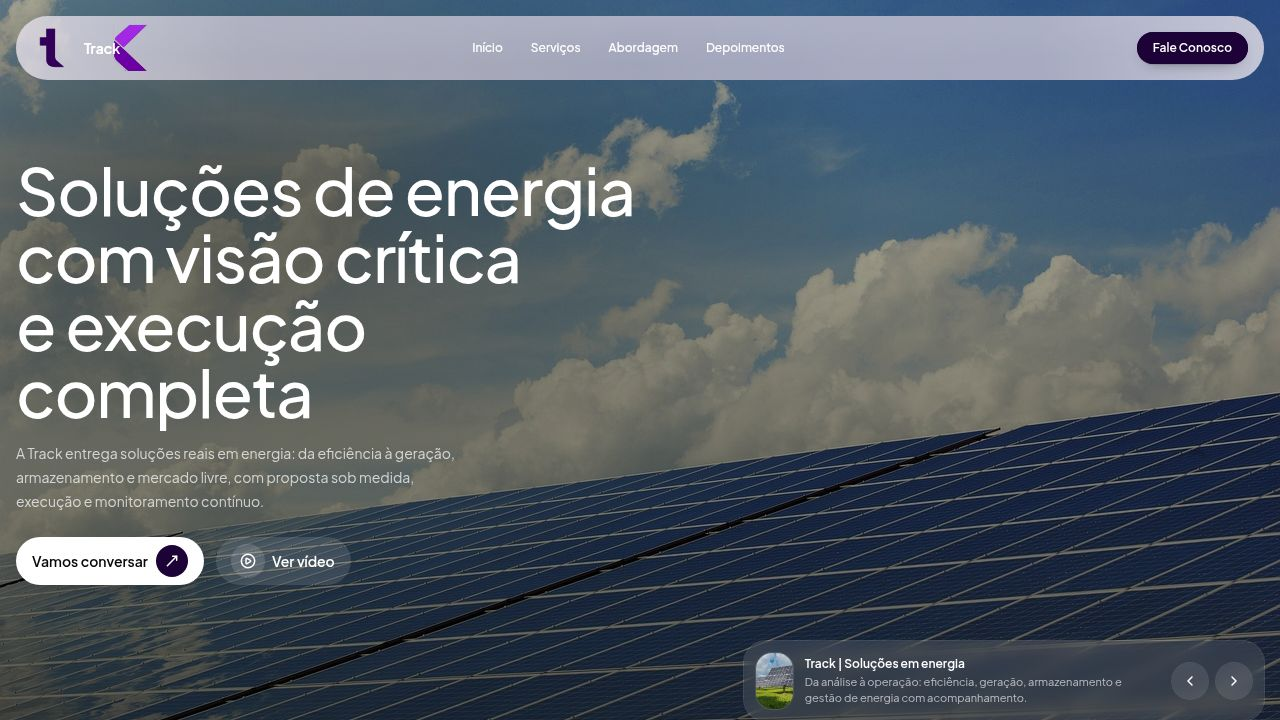
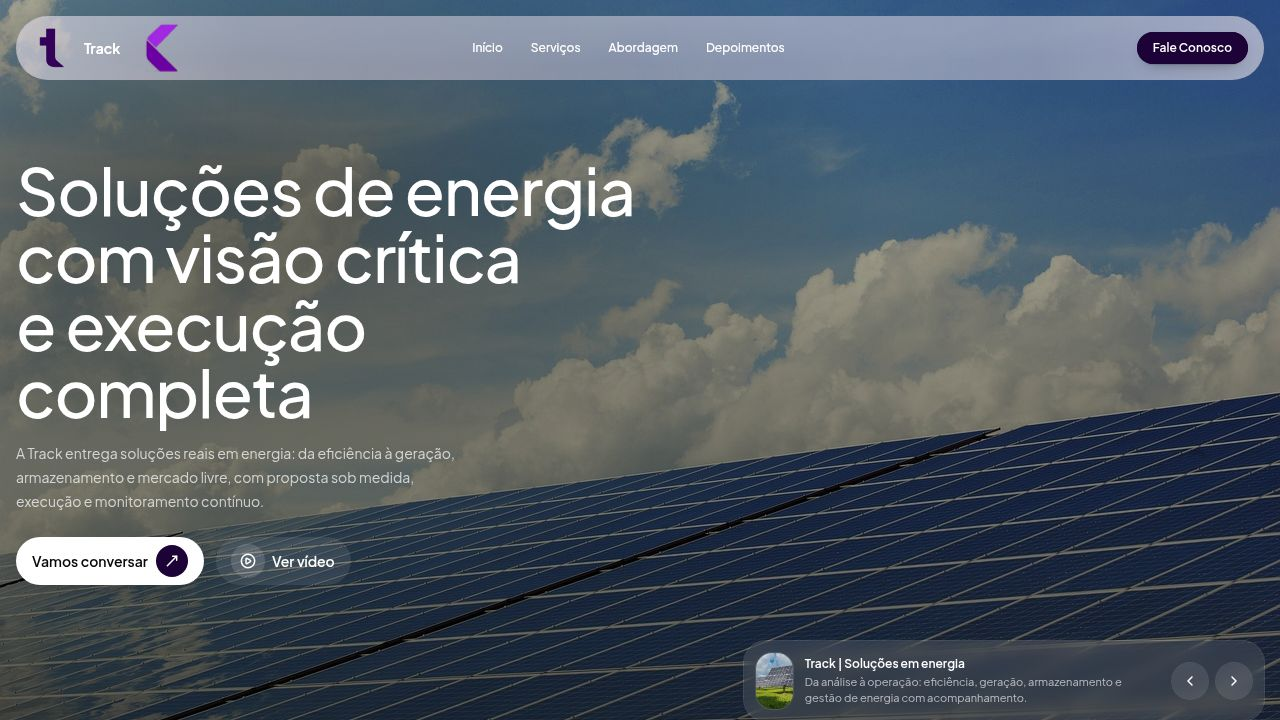
Make the home page header less opaque and cleaner
Update the home page header background opacity and styling to match the "Ver vídeo" button aesthetic.

Replit-Commit-Author: Agent
Replit-Commit-Session-Id: 896351fb-a744-44dc-8b67-53fe8461284b
Replit-Commit-Checkpoint-Type: full_checkpoint
Replit-Commit-Event-Id: 8187d3a5-b73c-4d79-8bb9-8c7cab79c105
Replit-Commit-Screenshot-Url: https://storage.googleapis.com/screenshot-production-us-central1/eede4cac-3f58-423c-a1e9-f071d8b2dafc/896351fb-a744-44dc-8b67-53fe8461284b/udZAayl
Replit-Helium-Checkpoint-Created: true

Changed region(s): [[0.0, 0.0, 1.0, 0.1222]]

diff --git a/client/src/pages/landing.tsx b/client/src/pages/landing.tsx
@@ -162,7 +162,7 @@ function GhostButton({
     <button
       data-testid={testId}
       onClick={onClick}
-      className="group inline-flex items-center gap-2 overflow-hidden rounded-full bg-white/12 px-4 py-2 text-sm font-semibold text-white transition hover:bg-white/16 active:scale-[0.98]"
+      className="group inline-flex items-center gap-2 overflow-hidden rounded-full bg-white/9 px-4 py-2 text-sm font-semibold text-white transition hover:bg-white/14 active:scale-[0.98]"
     >
       {icon ? (
         <span className="grid h-8 w-8 shrink-0 place-items-center rounded-full bg-white/14 ring-1 ring-white/14 transition group-hover:bg-white/16">
@@ -294,7 +294,7 @@ function Nav({ onContact }: { onContact: () => void }) {
         <div
           ref={headerRef}
           data-testid="header-shell"
-          className="relative mt-4 flex items-center justify-between overflow-hidden rounded-full bg-white/12 px-4 py-3"
+          className="relative mt-4 flex items-center justify-between overflow-hidden rounded-full bg-white/9 px-4 py-3"
         >
           {/* Seta (imagem anexada) percorre todo o header até a logo e some ao chegar */}
           {!arrowGone ? (
